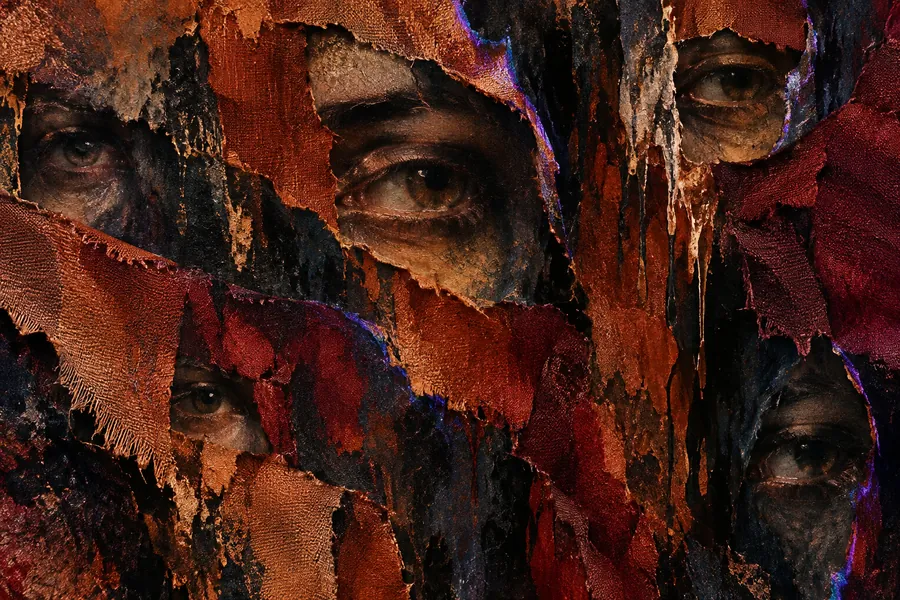
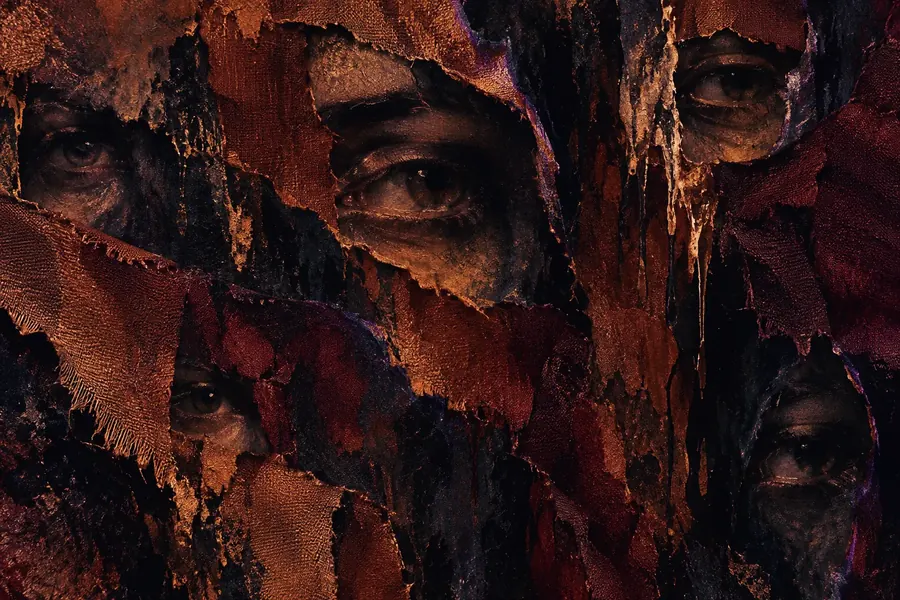
картинки продуктов в цветокоре сайта (тени в тьму, холодное погашено); банда: трещины заменены на «наведи резкость» с рамками автофокуса и приемом против голоса

diff --git a/index.html b/index.html
@@ -102,20 +102,39 @@
   .voice::before{content:"";position:absolute;inset:7%;filter:blur(24px);border-radius:10%;background:var(--a)}
   .voice::after{content:"";position:absolute;inset:0;background:var(--grain);opacity:.9;mix-blend-mode:overlay;pointer-events:none}
   .voice>*{position:relative;z-index:2}
+  .voice .front{display:flex;flex-direction:column}
   .voice .t{font-family:var(--f-mono);font-size:10px;letter-spacing:.14em;text-transform:uppercase;color:rgba(241,230,214,.72);margin-bottom:10px}
   .voice b{font-family:var(--f-head);font-weight:900;text-transform:uppercase;font-size:clamp(1.55rem,1.9vw,2.05rem);line-height:.92;color:var(--ink)}
   .voice q{display:block;min-height:3em;margin-top:10px;font-family:var(--f-mono);font-size:10.5px;line-height:1.5;letter-spacing:.04em;text-transform:uppercase;color:rgba(241,230,214,.86);quotes:"«" "»"}
   @media(hover:hover){.voice:hover{transform:translateY(-4px)}}
   .voice.hit{animation:hit .22s}
   @keyframes hit{30%{transform:translate(3px,-2px)}65%{transform:translate(-2px,1px)}}
-  /* трещины по клику: темный разлом, внутри тлеет лава, рисуется от точки удара */
-  .crack{position:absolute;inset:0;width:100%;height:100%;z-index:1;pointer-events:none;overflow:visible}
-  .crack path{fill:none;stroke-linecap:round;stroke-linejoin:round;transition:stroke-dashoffset .45s cubic-bezier(.2,.9,.3,1)}
-  .crack .glow{stroke:#F08A24;stroke-opacity:.5;filter:blur(1.6px)}
-  .crack .core{stroke:#120604}
-  .crack .hot{stroke:#FFC27A;stroke-opacity:.8}
-  .voice.broken::before{filter:blur(24px) brightness(.8)}
-  .hint{margin-top:18px;font-family:var(--f-mono);font-size:11px;letter-spacing:.12em;text-transform:uppercase;color:rgba(164,159,144,.7)}
+  /* «наведи резкость»: камера фокусируется на голосе страха. Без оранжевого, только фокус и масштаб */
+  .voice{cursor:pointer;outline:none}
+  .voice::before{transition:transform .9s cubic-bezier(.65,0,.2,1),opacity .6s;transform-origin:50% 46%}
+  .voice .front{position:relative;z-index:2;transition:opacity .35s ease}
+  .voice .af{position:absolute;inset:16px;z-index:2;pointer-events:none;color:rgba(247,235,218,.85);opacity:0;transition:inset .35s cubic-bezier(.2,.9,.3,1),opacity .3s,color .4s;
+    background:linear-gradient(currentColor,currentColor) 0 0/16px 1.5px,linear-gradient(currentColor,currentColor) 0 0/1.5px 16px,
+      linear-gradient(currentColor,currentColor) 100% 0/16px 1.5px,linear-gradient(currentColor,currentColor) 100% 0/1.5px 16px,
+      linear-gradient(currentColor,currentColor) 0 100%/16px 1.5px,linear-gradient(currentColor,currentColor) 0 100%/1.5px 16px,
+      linear-gradient(currentColor,currentColor) 100% 100%/16px 1.5px,linear-gradient(currentColor,currentColor) 100% 100%/1.5px 16px;background-repeat:no-repeat}
+  @media(hover:hover){.voice:hover .af{opacity:1;inset:24px}}
+  @media(hover:none){.voice .af{opacity:.5}}
+  .voice .back{position:absolute;inset:0;z-index:4;display:flex;flex-direction:column;justify-content:space-between;padding:22px 16px 20px;text-align:left;
+    color:#14100F;opacity:0;transition:opacity .45s ease .35s;pointer-events:none}
+  .voice .back .bh b{display:block;font-family:var(--f-head);font-weight:900;text-transform:uppercase;font-size:1.15rem;line-height:1;color:#14100F;text-shadow:none}
+  .voice .back .bh span{display:block;margin-top:5px;font-family:var(--f-mono);font-size:9.5px;line-height:1.45;letter-spacing:.04em;text-transform:uppercase;color:#5E554A}
+  .voice .back .bl{display:block;font-family:var(--f-mono);font-size:9.5px;letter-spacing:.16em;text-transform:uppercase;color:#5E554A;margin-bottom:6px}
+  .voice .back p{font-weight:800;font-size:16px;line-height:1.3;color:#14100F}
+  .voice.focus::before{transform:scale(.13);opacity:0}
+  .voice .back .dot{display:block;width:24px;height:24px;margin:auto;border-radius:50%;background:var(--a);box-shadow:0 0 0 1px rgba(20,16,15,.25);transform:scale(0);transition:transform .5s cubic-bezier(.2,.9,.3,1) .5s}
+  .voice.focus .back .dot{transform:scale(1)}
+  .voice.focus .front{opacity:0}
+  .voice.focus .back{opacity:1}
+  .voice.focus .af{opacity:1;inset:10px;color:rgba(20,16,15,.55)}
+  .voice:focus-visible .af{opacity:1}
+  @media (prefers-reduced-motion:reduce){.voice::before,.voice .af,.voice .back,.voice .front{transition:none}}
+  .hint{margin-top:20px;font-family:var(--f-mono);font-size:11.5px;letter-spacing:.12em;text-transform:uppercase;color:var(--ink-dim)}
 
   /* ===== ПРОДУКТЫ: картины ===== */
   .offer{background:var(--grain),radial-gradient(70% 50% at 8% 100%,rgba(42,27,74,.5),transparent 70%),var(--void)}
@@ -252,6 +271,13 @@
     .auras{grid-template-columns:1fr 1fr}
     .auras .voice:last-child{grid-column:1/-1;width:calc(50% - 6px);justify-self:center}
     .voice b{font-size:1.4rem}
+    .voice .back{padding:20px 16px 16px}
+    .voice .back .bh b{font-size:.95rem}
+    .voice .back .bh span{font-size:8.5px}
+    .voice .back p{font-size:13.5px}
+    .voice .back .dot{width:18px;height:18px}
+    .voice .af{inset:7px}
+    .voice.focus .af{inset:6px}
     .voice .t{font-size:9px;letter-spacing:.08em;white-space:nowrap}
     .voice q{font-size:10px}
     .prod .meta{font-size:10px;letter-spacing:.06em;white-space:nowrap}
@@ -310,13 +336,13 @@
       <blockquote class="quote-me">Я понимаю, насколько тяжело просто включить камеру. Включаешь, садишься и такой: «А-а, я хочу рассказать...» Я сам через это прошел.<cite>Максим</cite></blockquote>
     </div>
     <div class="auras">
-      <div class="voice" style="--a:radial-gradient(circle at 50% 40%,#0B0507 0 30%,#5A1A16 55%,#B4502A 80%)"><span class="t">01 · разыскивается</span><b>Перфекционист</b><q>Может, еще что-то докрутить, потом выложим</q></div>
-      <div class="voice" style="--a:radial-gradient(circle at 50% 40%,#140A04 0 28%,#7A4A12 55%,#DB9F51 82%)"><span class="t">02 · разыскивается</span><b>«Потом»</b><q>А, пох*й, потом сделаю</q></div>
-      <div class="voice" style="--a:radial-gradient(circle at 50% 40%,#07070F 0 30%,#3A1625 55%,#761A2B 82%)"><span class="t">03 · разыскивается</span><b>Оценщик</b><q>А вдруг кто-то что-то скажет</q></div>
-      <div class="voice" style="--a:radial-gradient(circle at 50% 40%,#05060F 0 30%,#2A1B4A 58%,#6A4A8A 85%)"><span class="t">04 · разыскивается</span><b>«Вдруг зря»</b><q>А вдруг зря, вдруг не получится</q></div>
-      <div class="voice" style="--a:radial-gradient(circle at 50% 40%,#0D0207 0 28%,#A73110 55%,#F08A24 82%)"><span class="t">05 · разыскивается</span><b>Удаляльщик</b><q>Ну что, выложил? Теперь удаляй</q></div>
+      <div class="voice" role="button" tabindex="0" aria-pressed="false" aria-label="Навести резкость на «Перфекционист» и открыть прием против него" style="--a:radial-gradient(circle at 50% 40%,#0B0507 0 30%,#5A1A16 55%,#B4502A 80%)"><span class="af"></span><div class="front"><span class="t">01 · разыскивается</span><b>Перфекционист</b><q>Может, еще что-то докрутить, потом выложим</q></div><div class="back" aria-hidden="true"><div class="bh"><b>Перфекционист</b><span>«Может, еще что-то докрутить, потом выложим»</span></div><i class="dot"></i><div><span class="bl">прием</span><p>Шестой дубль уходит в мир, какой есть.</p></div></div></div>
+      <div class="voice" role="button" tabindex="0" aria-pressed="false" aria-label="Навести резкость на «Потом» и открыть прием против него" style="--a:radial-gradient(circle at 50% 40%,#140A04 0 28%,#7A4A12 55%,#DB9F51 82%)"><span class="af"></span><div class="front"><span class="t">02 · разыскивается</span><b>«Потом»</b><q>А, пох*й, потом сделаю</q></div><div class="back" aria-hidden="true"><div class="bh"><b>«Потом»</b><span>«А, пох*й, потом сделаю»</span></div><i class="dot"></i><div><span class="bl">прием</span><p>Снимай в первые 10 минут после идеи.</p></div></div></div>
+      <div class="voice" role="button" tabindex="0" aria-pressed="false" aria-label="Навести резкость на «Оценщик» и открыть прием против него" style="--a:radial-gradient(circle at 50% 40%,#07070F 0 30%,#3A1625 55%,#761A2B 82%)"><span class="af"></span><div class="front"><span class="t">03 · разыскивается</span><b>Оценщик</b><q>А вдруг кто-то что-то скажет</q></div><div class="back" aria-hidden="true"><div class="bh"><b>Оценщик</b><span>«А вдруг кто-то что-то скажет»</span></div><i class="dot"></i><div><span class="bl">прием</span><p>Гадости не пишут под роликом, который никто не увидел.</p></div></div></div>
+      <div class="voice" role="button" tabindex="0" aria-pressed="false" aria-label="Навести резкость на «Вдруг зря» и открыть прием против него" style="--a:radial-gradient(circle at 50% 40%,#05060F 0 30%,#2A1B4A 58%,#6A4A8A 85%)"><span class="af"></span><div class="front"><span class="t">04 · разыскивается</span><b>«Вдруг зря»</b><q>А вдруг зря, вдруг не получится</q></div><div class="back" aria-hidden="true"><div class="bh"><b>«Вдруг зря»</b><span>«А вдруг зря, вдруг не получится»</span></div><i class="dot"></i><div><span class="bl">прием</span><p>Ролик без просмотров это информация, не провал.</p></div></div></div>
+      <div class="voice" role="button" tabindex="0" aria-pressed="false" aria-label="Навести резкость на «Удаляльщик» и открыть прием против него" style="--a:radial-gradient(circle at 50% 40%,#0D0207 0 28%,#A73110 55%,#F08A24 82%)"><span class="af"></span><div class="front"><span class="t">05 · разыскивается</span><b>Удаляльщик</b><q>Ну что, выложил? Теперь удаляй</q></div><div class="back" aria-hidden="true"><div class="bh"><b>Удаляльщик</b><span>«Ну что, выложил? Теперь удаляй»</span></div><i class="dot"></i><div><span class="bl">прием</span><p>Выложил и сутки не трогаешь, что бы ни казалось.</p></div></div></div>
     </div>
-    <p class="hint">Ткни в любого, и он треснет.</p>
+    <p class="hint">Наведи резкость на любого: под ним прием против него</p>
     <div class="actions">
       <a class="btn" href="quiz/">Тест: кто твой главарь<svg viewBox="0 0 24 24" fill="none" stroke="currentColor" stroke-width="2.4" stroke-linecap="round" stroke-linejoin="round" aria-hidden="true"><path d="M5 12h14M13 6l6 6-6 6"/></svg></a>
       <span class="note">60 секунд, бесплатно, в конце имя твоего главаря</span>
@@ -446,34 +472,12 @@
     targets.forEach(function(el){io.observe(el);});
   } else {targets.forEach(function(el){el.classList.add('in');});}
 
-  // по постерам банды можно ткнуть: от точки удара расходится трещина, в ней тлеет лава. До 5 трещин на постер
-  var NS='http://www.w3.org/2000/svg';
-  function branch(x,y,ang,len,w,W,H,out){
-    var d='M'+x.toFixed(1)+' '+y.toFixed(1),steps=Math.round(len/12);
-    for(var i=0;i<steps;i++){
-      ang+=(Math.random()-.5)*0.55;var s=8+Math.random()*9;x+=Math.cos(ang)*s;y+=Math.sin(ang)*s;d+=' L'+x.toFixed(1)+' '+y.toFixed(1);
-      if(x<-10||y<-10||x>W+10||y>H+10)break;
-      if(w>1&&Math.random()<0.1)branch(x,y,ang+(Math.random()<.5?-1:1)*(0.5+Math.random()*0.5),len*0.4,w*0.55,W,H,out);
-    }
-    out.push({d:d,w:w});
-  }
+  // «наведи резкость»: нажатие фокусирует плакат и показывает прием, повторное возвращает
   document.querySelectorAll('.voice').forEach(function(v){
-    v.addEventListener('click',function(e){
-      var n=v.querySelectorAll('.crack').length;if(n>=5)return;
-      var r=v.getBoundingClientRect(),x=e.clientX-r.left,y=e.clientY-r.top,W=r.width,H=r.height,parts=[];
-      var k=2+Math.floor(Math.random()*2),a0=Math.random()*6.28;
-      for(var i=0;i<k;i++)branch(x,y,a0+i*6.28/k+(Math.random()-.5)*0.7,(0.22+Math.random()*0.22)*Math.max(W,H),1.6,W,H,parts);
-      var svg=document.createElementNS(NS,'svg');svg.setAttribute('class','crack');svg.setAttribute('viewBox','0 0 '+W+' '+H);
-      ['glow','core','hot'].forEach(function(cls){parts.forEach(function(pt){
-        var pa=document.createElementNS(NS,'path');pa.setAttribute('d',pt.d);pa.setAttribute('class',cls);
-        pa.setAttribute('stroke-width',(cls==='glow'?pt.w*2.4:cls==='core'?pt.w:pt.w*0.3).toFixed(2));svg.appendChild(pa);
-      });});
-      v.appendChild(svg);
-      svg.querySelectorAll('path').forEach(function(pa){var L=pa.getTotalLength();pa.style.strokeDasharray=L;pa.style.strokeDashoffset=L;});
-      requestAnimationFrame(function(){requestAnimationFrame(function(){svg.querySelectorAll('path').forEach(function(pa){pa.style.strokeDashoffset=0;});});});
-      if(n+1>=5)v.classList.add('broken');
-      v.classList.remove('hit');void v.offsetWidth;v.classList.add('hit');
-    });
+    function toggle(){var on=!v.classList.contains('focus');v.classList.toggle('focus',on);v.setAttribute('aria-pressed',on?'true':'false');
+      v.querySelector('.back').setAttribute('aria-hidden',on?'false':'true');}
+    v.addEventListener('click',toggle);
+    v.addEventListener('keydown',function(e){if(e.key==='Enter'||e.key===' '){e.preventDefault();toggle();}});
   });
 
   // плавающая кнопка на телефоне: прячется у первого экрана, у продуктов и у финала
